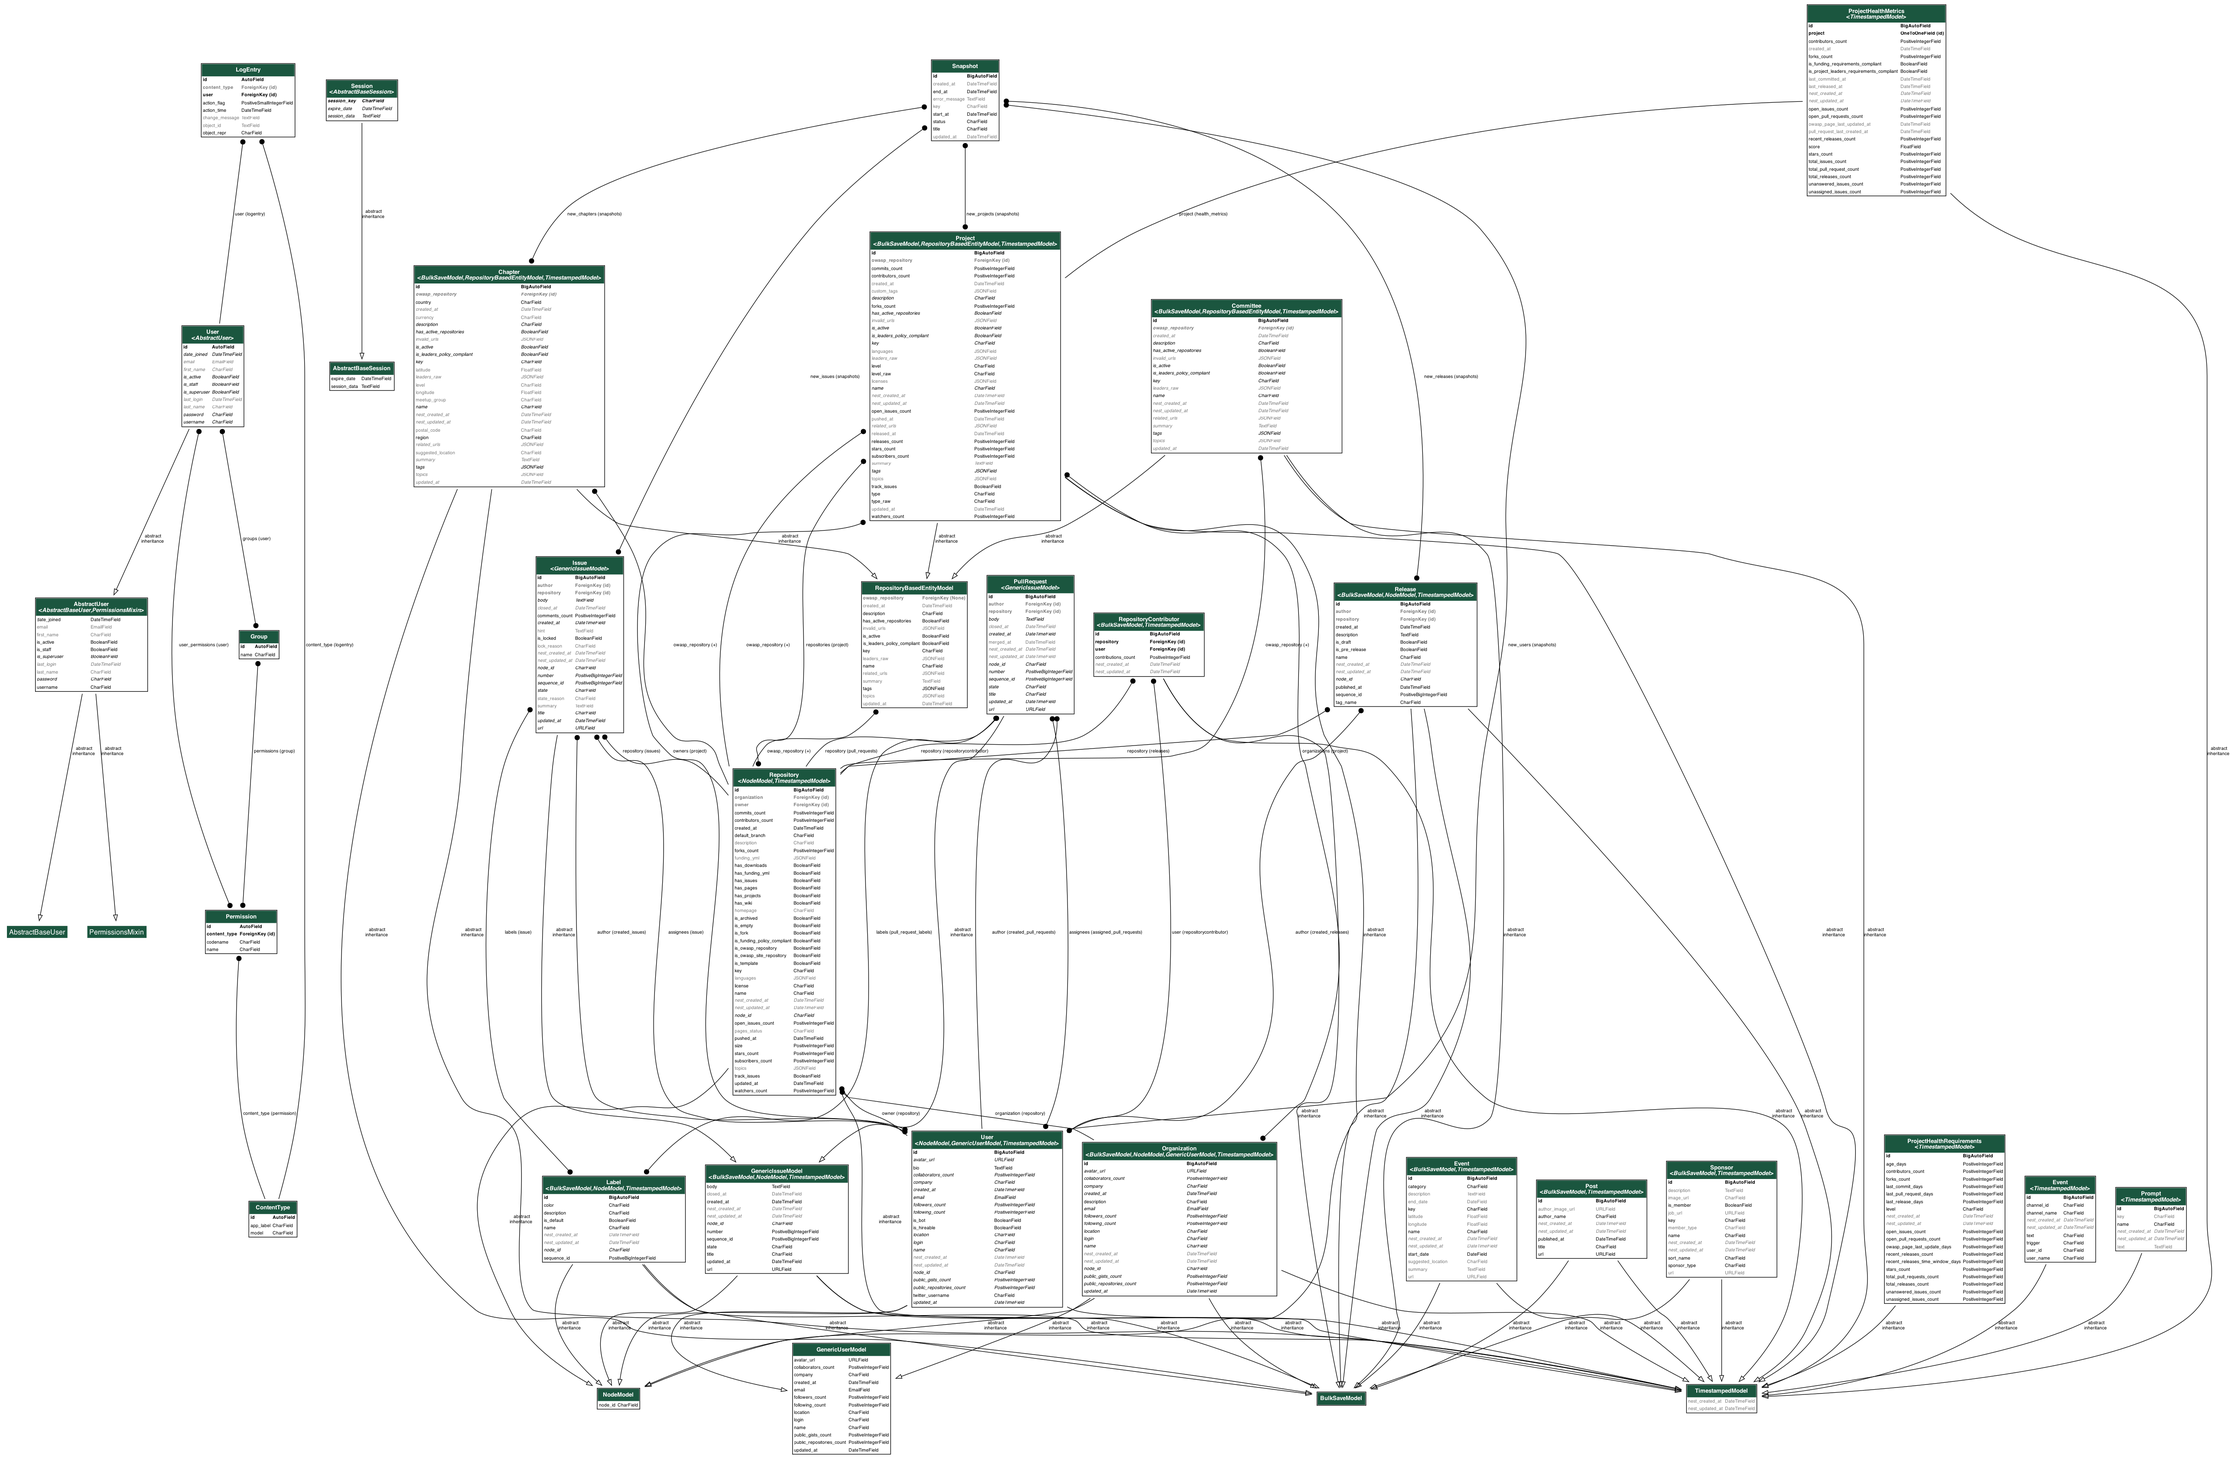
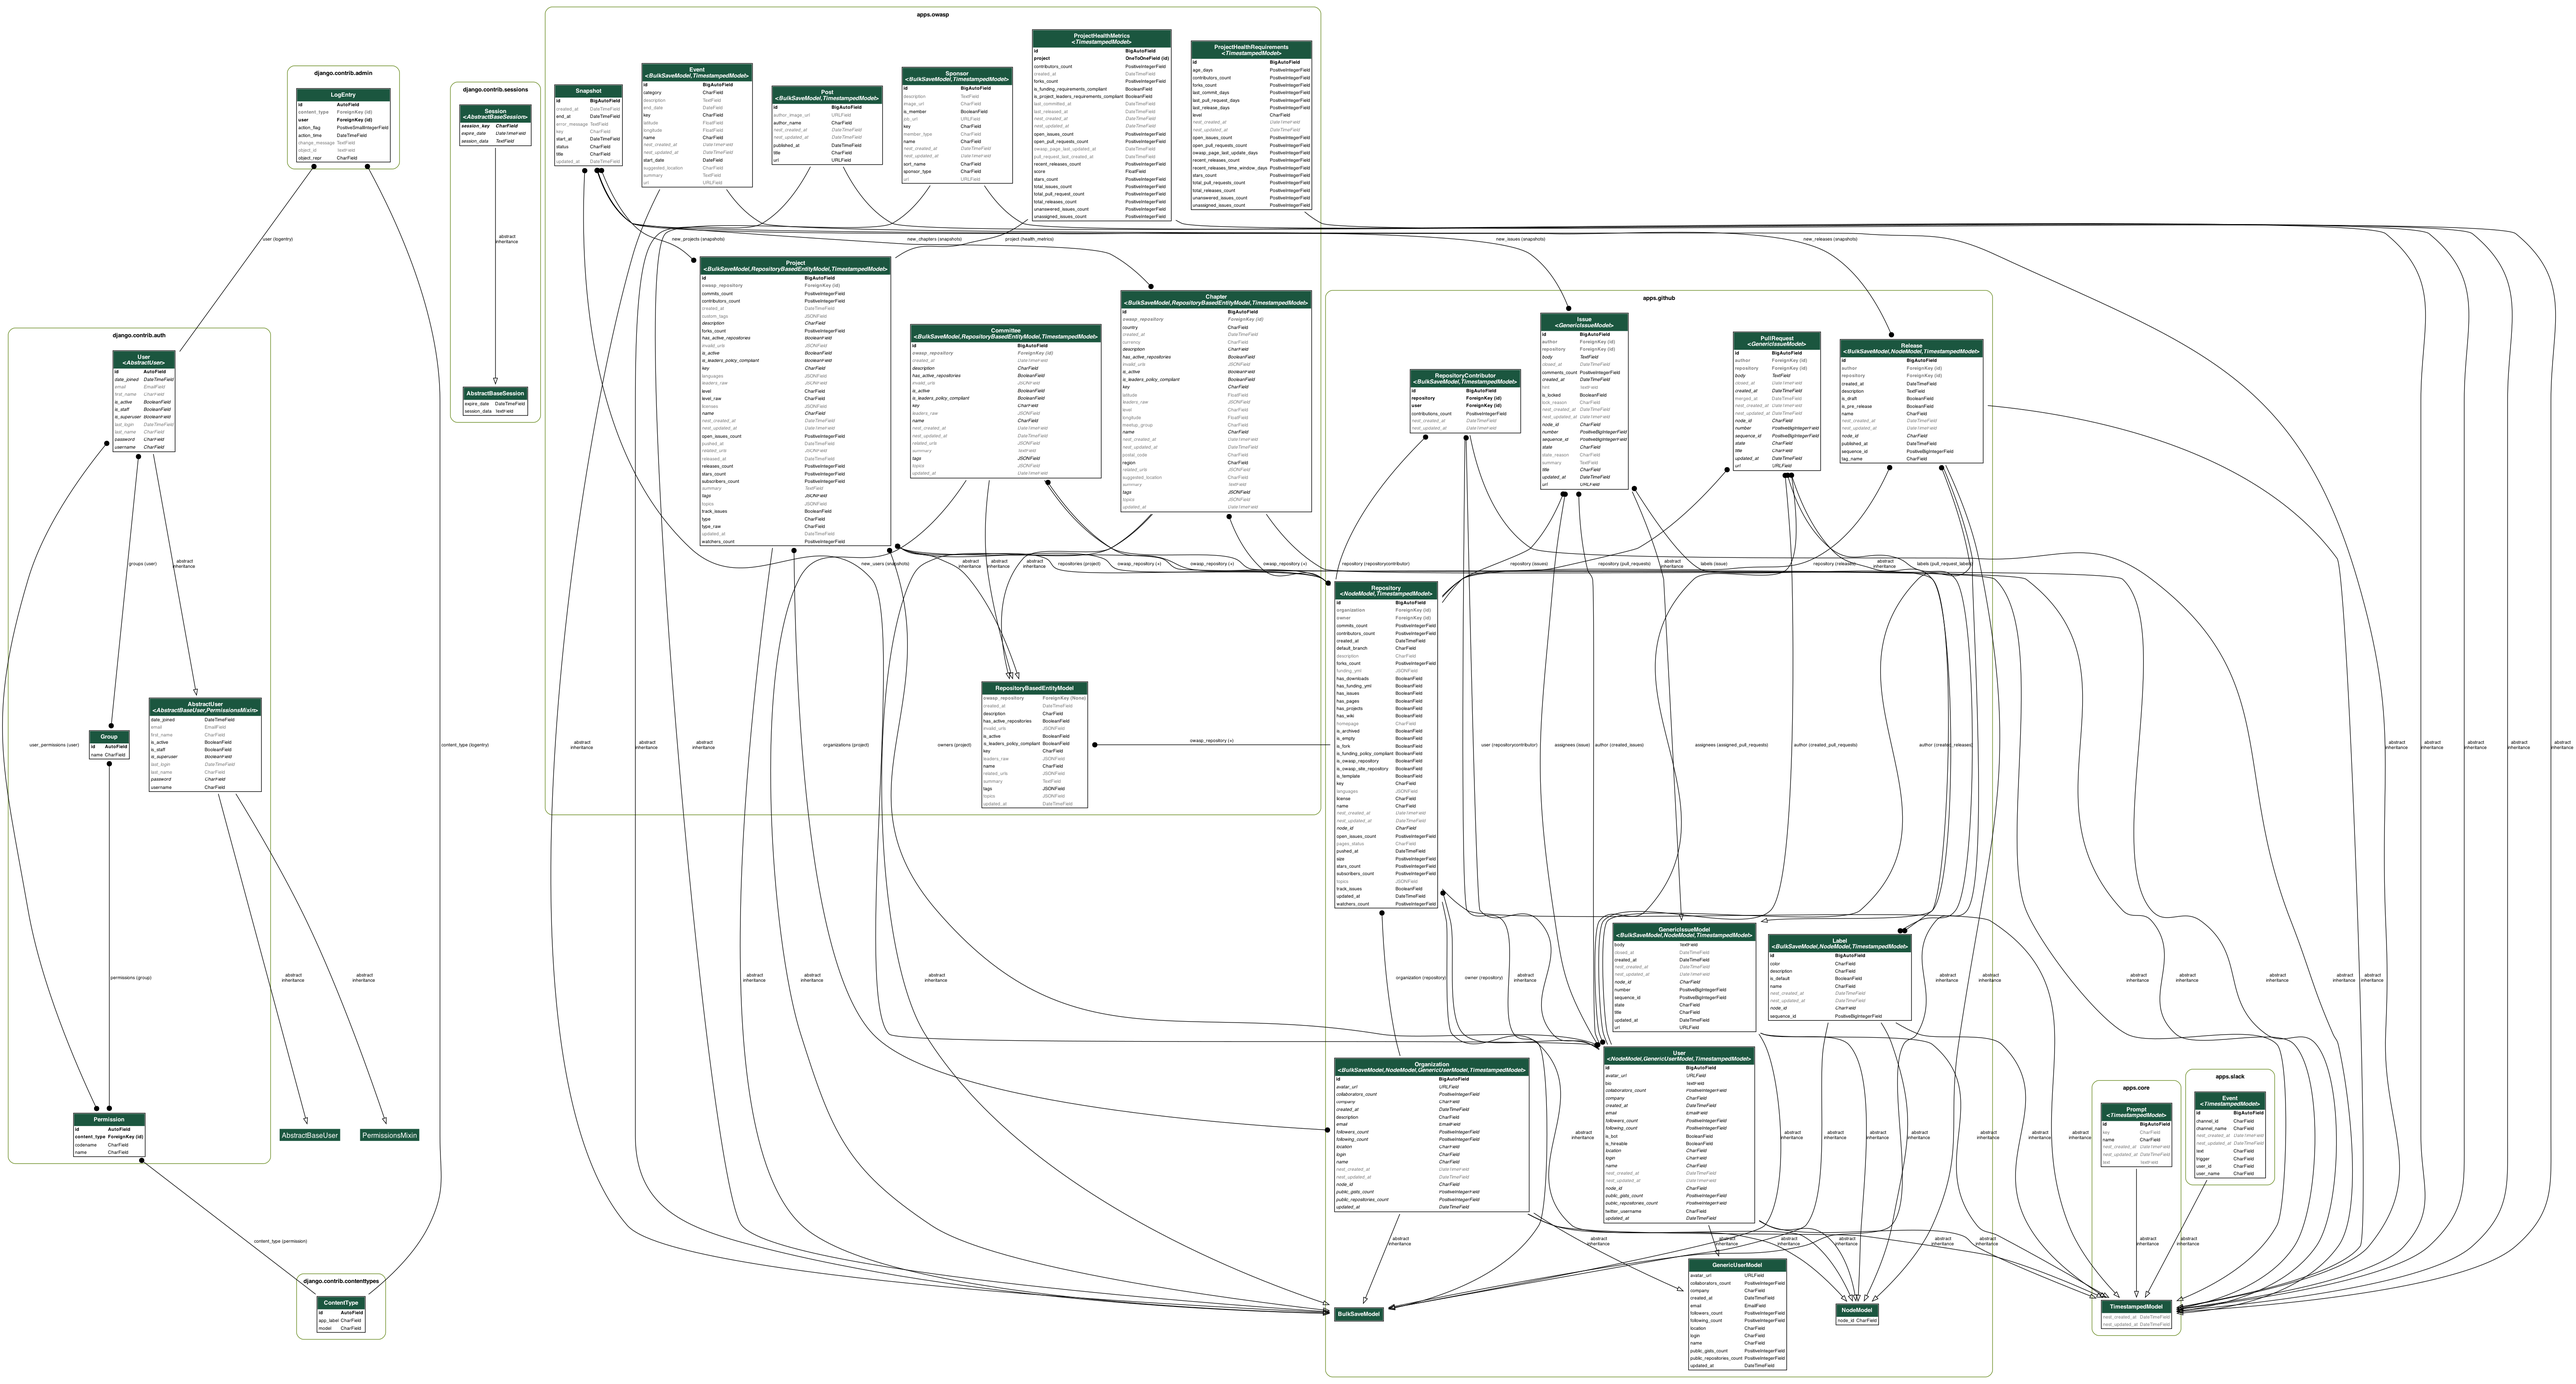
commit

diff --git a/backend/settings/local.py b/backend/settings/local.py
@@ -18,3 +18,12 @@ class Local(Base):
     PUBLIC_IP_ADDRESS = values.Value()
     SLACK_COMMANDS_ENABLED = True
     SLACK_EVENTS_ENABLED = True
+    
+    INSTALLED_APPS = Base.INSTALLED_APPS + (
+        "django_extensions",
+    )
+    
+    GRAPH_MODELS = {
+        "all_applications": True,
+        "group_models": True,
+    }

diff --git a/backend/settings/base.py b/backend/settings/base.py
@@ -31,7 +31,6 @@ class Base(Configuration):
         "django.contrib.sessions",
         "django.contrib.messages",
         "django.contrib.staticfiles",
-        "django_extensions",
     )
 
     THIRD_PARTY_APPS = (
